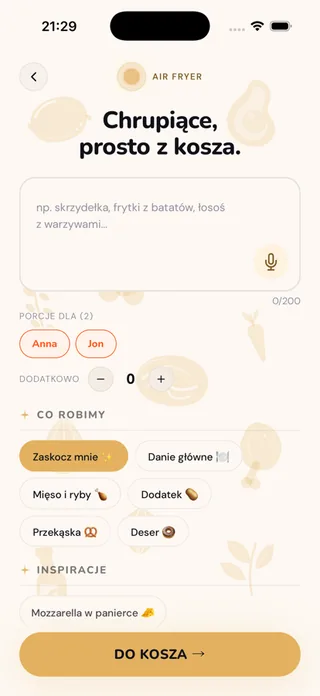
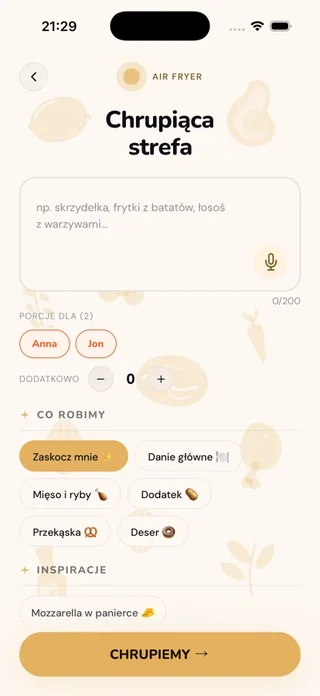
landing PL: 'kosz' znika z Air Fryera — obietnica 'Chrupiaca strefa.', opis bez 'kosza', zrzuty Lasucha ('Slodki kacik') i Air Fryera ('Chrupiaca strefa', 'CHRUPIEMY') z podmienionym napisem (PO 09.10, DM-261009.4-.5); EN bez zmian

Changed region(s): [[0.25, 0.1509, 0.75, 0.2414], [0.3438, 0.9353, 0.5938, 0.9655], [0.625, 0.9353, 0.6562, 0.9655]]

diff --git a/index.html b/index.html
@@ -228,7 +228,7 @@
         <div class="win"><div class="dev"><div class="scr"><img src="/assets/screens/04-kitchenhero-pl-320.webp" srcset="/assets/screens/04-kitchenhero-pl-320.webp 320w, /assets/screens/04-kitchenhero-pl-480.webp 480w" sizes="172px" width="360" height="780" loading="lazy" decoding="async" alt="Ekran trybu Kitchen Hero: pole na składniki z przyciskiem aparatu i mikrofonu"></div></div><ul class="bits" aria-hidden="true"><li class="chip" style="--i:0">wpisz</li><li class="chip" style="--i:1">podyktuj</li><li class="chip" style="--i:2">sfotografuj</li></ul></div>
       </article>
       <article class="mate" style="--mc: var(--m-fryer)">
-        <div class="mate-copy"><p class="who">Air Fryer</p><h3>Chrupiące, prosto z kosza.</h3><p>Kiedy air fryer stoi na blacie, a chcesz z niego wyciągnąć coś więcej niż frytki. Wybierzesz, co robimy: danie główne, dodatek, przekąskę albo deser. Podam temperaturę i czas, a jedzenie rozłożę na tyle partii, ile zmieści Twój kosz. Masz dwie komory? Rozpiszę je tak, żeby obie skończyły w tej samej minucie. A to, co zwykle pieczesz w piekarniku, przeliczę na air fryer.</p></div>
+        <div class="mate-copy"><p class="who">Air Fryer</p><h3>Chrupiąca strefa.</h3><p>Kiedy Air Fryer stoi na blacie, a chcesz z niego wyciągnąć coś więcej niż frytki. Wybierzesz, co robimy: danie główne, dodatek, przekąskę albo deser. Podam temperaturę i czas, a jedzenie rozłożę na partie, żeby każda zmieściła się za jednym razem. Masz dwie komory? Rozpiszę je tak, żeby obie skończyły w tej samej minucie. A to, co zwykle pieczesz w piekarniku, przeliczę na Air Fryer.</p></div>
         <div class="win"><div class="dev"><div class="scr"><img src="/assets/screens/16-airfryer-pl-320.webp" srcset="/assets/screens/16-airfryer-pl-320.webp 320w, /assets/screens/16-airfryer-pl-414.webp 414w" sizes="172px" width="360" height="780" loading="lazy" decoding="async" alt="Ekran trybu Air Fryer: pole na zachciankę, porcje dla domowników i wybór, co robimy"></div></div><ul class="bits" aria-hidden="true"><li class="chip" style="--i:0">temperatura</li><li class="chip" style="--i:1">czas</li><li class="chip" style="--i:2">partie</li></ul></div>
       </article>
       <article class="mate" style="--mc: var(--m-sweet)">
